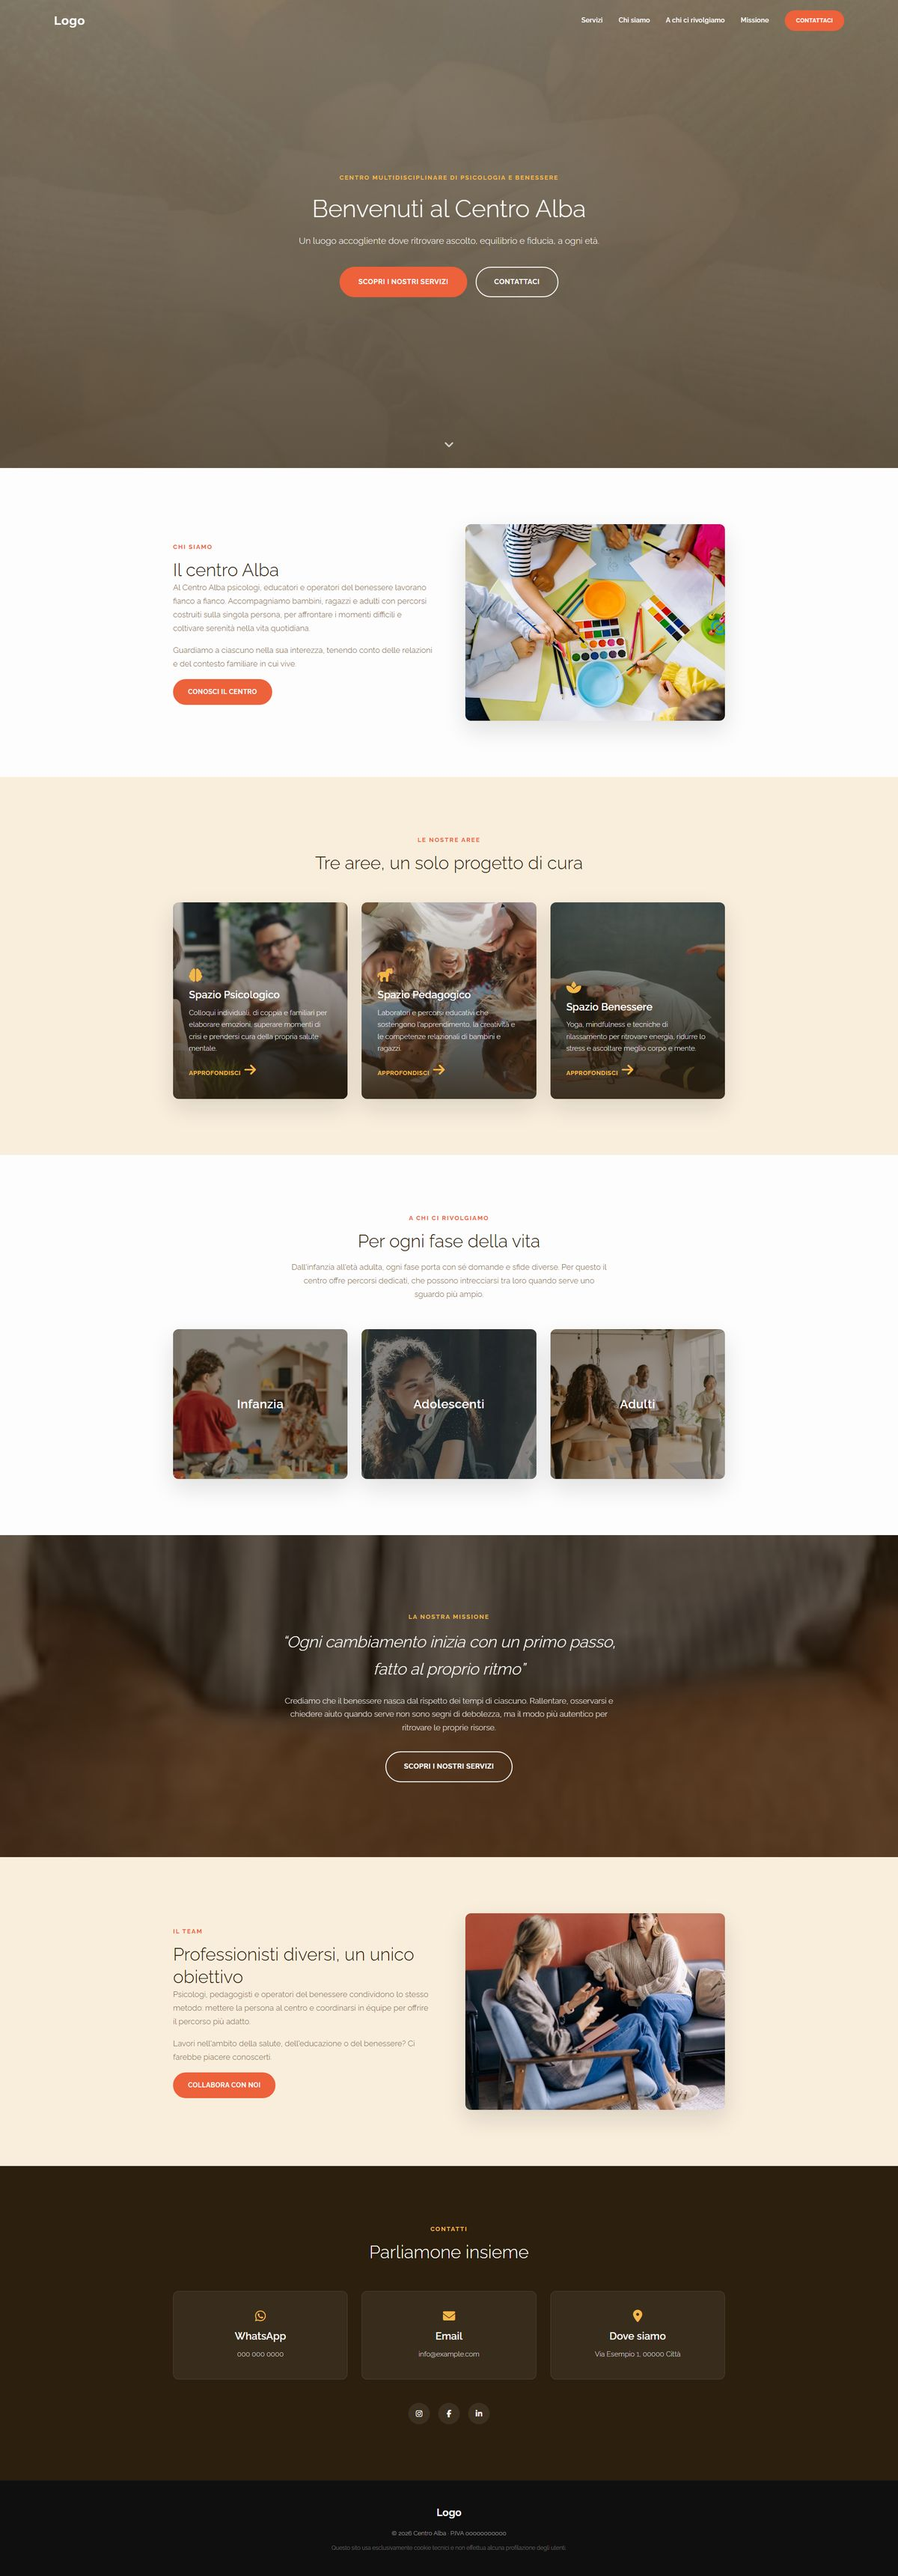
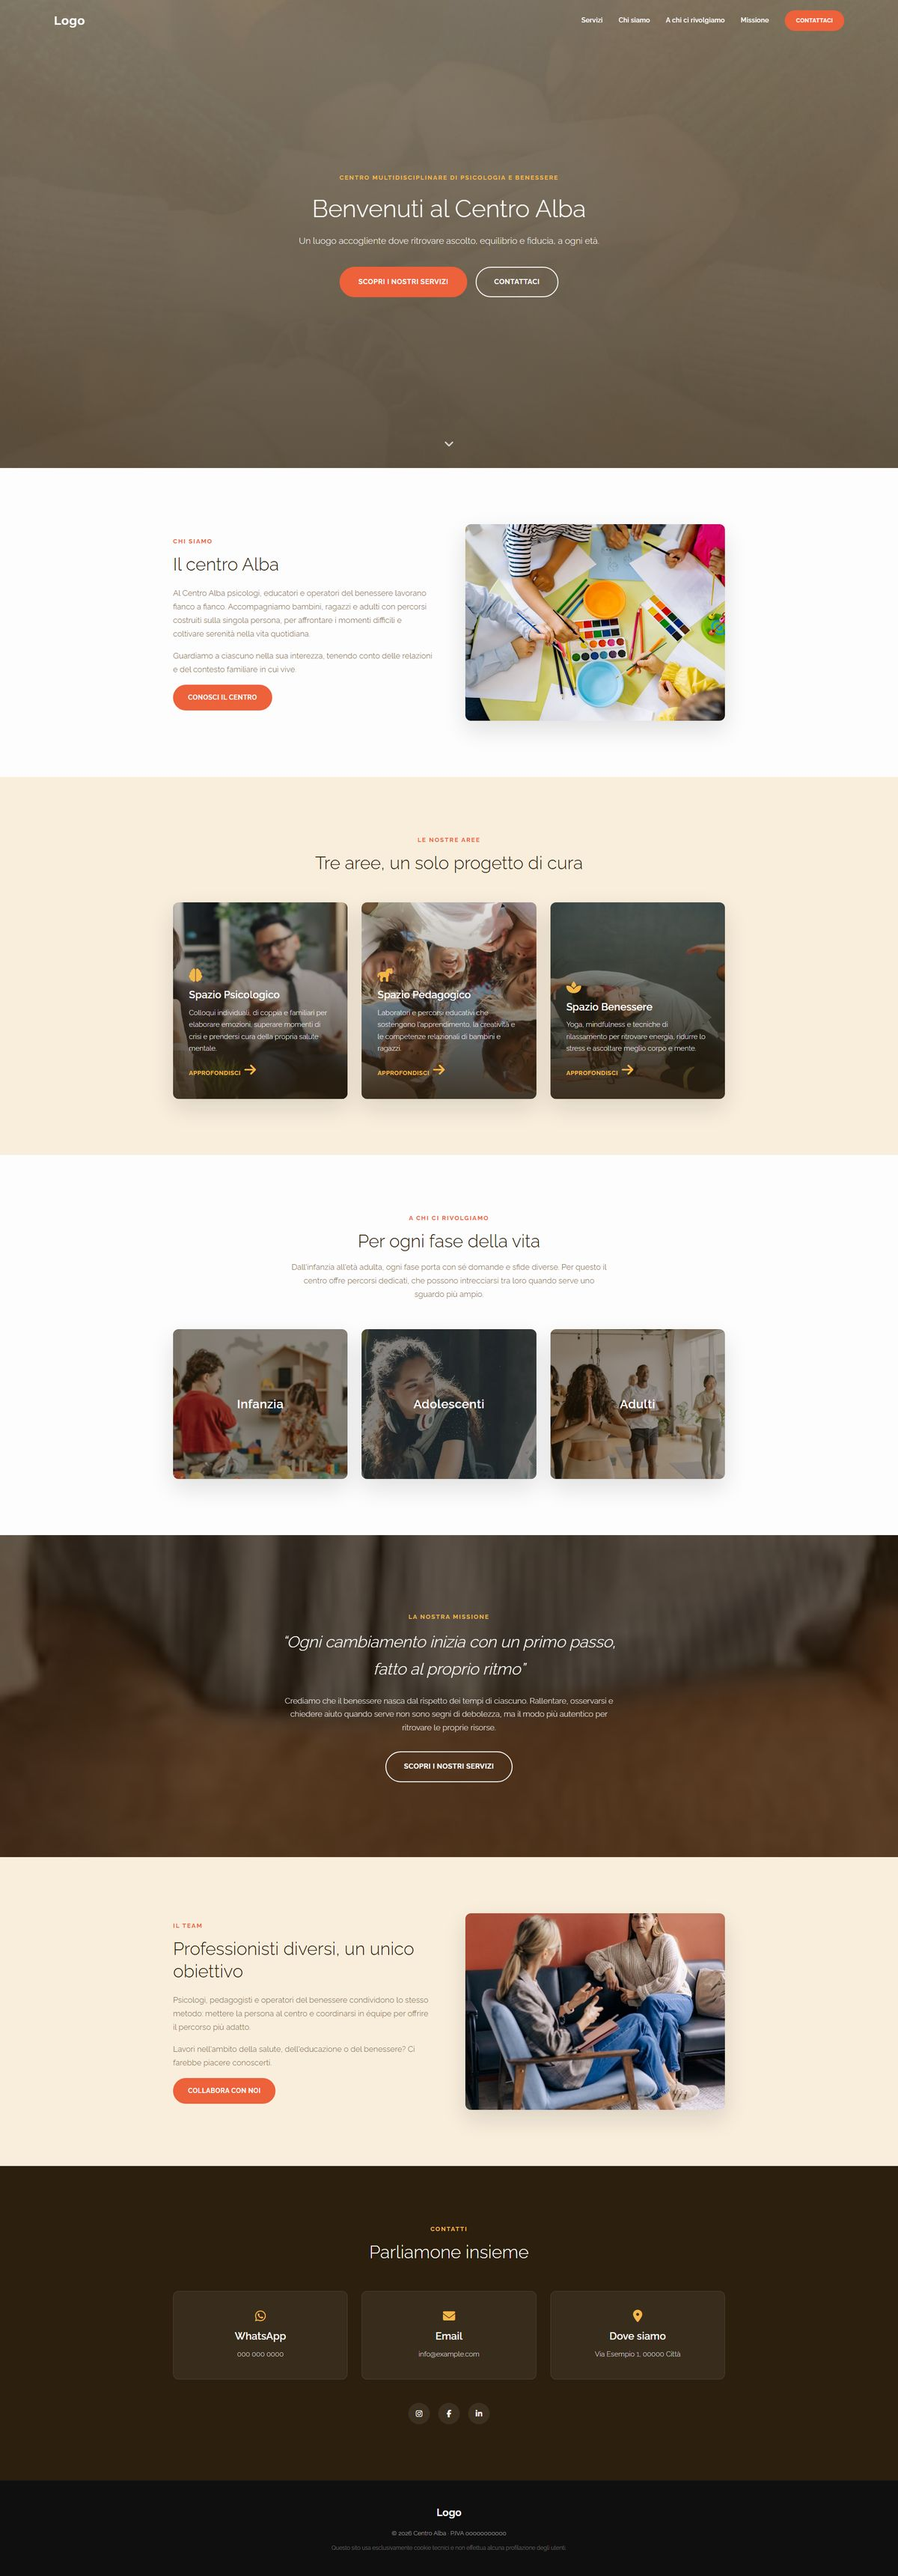
Wellness demo: heading spacing, smooth hover on area tiles

Changed region(s): [[0.185, 0.7465, 0.4625, 0.8398], [0.185, 0.2177, 0.4625, 0.2799]]

diff --git a/benessere/assets/css/main.css b/benessere/assets/css/main.css
@@ -1,1 +1,1 @@
-:root{--amber: #ed613b;--amber-hover: #d94f2b;--gold: #f2b749;--brown: #7a6240;--night: #2c1f0e;--cream: #f9eedc;--grey: #ebebeb;--black: #0f0f0f;--white: #fdfdfd;--font: "Raleway", -apple-system, BlinkMacSystemFont, sans-serif;--radius: 12px;--shadow: 0 20px 50px rgba(15, 15, 15, 0.12);--transition: all 0.3s ease;--max-width: 1180px}*{margin:0;padding:0;box-sizing:border-box}html{scroll-behavior:smooth}body{font-family:var(--font);font-weight:300;color:var(--night);background-color:var(--white);line-height:1.7;overflow-x:hidden}body.is-loading *{transition:none !important}img{display:block;max-width:100%}a{color:inherit;text-decoration:none}h1,h2,h3{font-weight:300;line-height:1.25}h1{font-size:52px}h2{font-size:38px}h3{font-size:22px;font-weight:600}p{font-size:17px}.kicker{display:inline-block;font-size:13px;font-weight:700;letter-spacing:2px;text-transform:uppercase;color:var(--amber);margin-bottom:14px}.kicker.light{color:var(--gold)}.button{display:inline-flex;align-items:center;gap:8px;padding:14px 30px;border-radius:999px;background-color:var(--amber);color:var(--white);font-weight:700;font-size:14px;letter-spacing:.5px;text-transform:uppercase;transition:var(--transition);border:2px solid var(--amber)}.button:hover{background-color:var(--amber-hover);border-color:var(--amber-hover);transform:translateY(-2px)}.button.big{padding:18px 38px;font-size:15px}.button.alt{background-color:rgba(0,0,0,0);border-color:var(--white)}.button.alt:hover{background-color:var(--white);color:var(--night)}.button.small{padding:10px 22px;font-size:12px}#navbar{position:fixed;top:0;left:0;right:0;z-index:1000;display:flex;align-items:center;justify-content:space-between;padding:22px 6%;transition:var(--transition)}#navbar.is-solid{background-color:rgba(253,253,253,.96);backdrop-filter:blur(6px);padding:14px 6%;box-shadow:0 2px 20px rgba(15,15,15,.06)}#navbar .logo{font-size:26px;font-weight:700;color:var(--white);letter-spacing:1px;transition:var(--transition)}#navbar.is-solid .logo{color:var(--amber)}#navbar nav{display:flex;align-items:center;gap:34px}#navbar nav a:not(.button){font-size:14px;font-weight:600;color:var(--white);letter-spacing:.3px;position:relative;transition:var(--transition)}#navbar.is-solid nav a:not(.button){color:var(--night)}#navbar nav a:not(.button)::after{content:"";position:absolute;left:0;bottom:-6px;width:0;height:2px;background-color:var(--amber);transition:var(--transition)}#navbar nav a:not(.button):hover::after{width:100%}#nav-toggle{display:none;flex-direction:column;gap:5px;background:none;border:none;cursor:pointer;padding:6px}#nav-toggle span{width:26px;height:2px;background-color:var(--white);transition:var(--transition)}#navbar.is-solid #nav-toggle span{background-color:var(--night)}.block-hero{position:relative;min-height:min(100vh,1000px);display:flex;align-items:center;justify-content:center;text-align:center;background-size:cover;background-position:center;background-repeat:no-repeat;padding:0 6%}.block-hero .overlay{position:absolute;inset:0;background:linear-gradient(180deg, rgba(44, 31, 14, 0.55) 0%, rgba(44, 31, 14, 0.75) 100%)}.block-hero .content{position:relative;z-index:2;max-width:780px;color:var(--white)}.block-hero .eyebrow{display:inline-block;font-size:13px;font-weight:700;letter-spacing:2px;text-transform:uppercase;color:var(--gold);margin-bottom:22px}.block-hero h1{margin-bottom:20px}.block-hero p{font-size:19px;font-weight:300;margin-bottom:40px;opacity:.92}.block-hero .actions{display:flex;gap:18px;justify-content:center;flex-wrap:wrap}.scroll-cue{position:absolute;bottom:36px;left:50%;transform:translateX(-50%);z-index:2;color:var(--white);font-size:20px;opacity:.8;animation:bounce 2.2s infinite}@keyframes bounce{0%,100%{transform:translate(-50%, 0)}50%{transform:translate(-50%, 10px)}}.block,.block-dark{padding:120px 6%}.block-alt{background-color:var(--cream)}.block-dark{background-color:var(--night);color:var(--white)}.inner{max-width:var(--max-width);margin:0 auto}.section-head{max-width:680px;margin:0 auto 60px;text-align:center}.section-head p{margin-top:18px;color:var(--brown)}.block-dark .section-head p{color:rgba(253,253,253,.75)}.two-col{display:grid;grid-template-columns:1fr 1fr;gap:70px;align-items:center}.two-col.reverse .col.image{order:2}.two-col .text p{color:var(--brown);margin-bottom:18px}.two-col .image img{width:100%;height:420px;object-fit:cover;border-radius:var(--radius);box-shadow:var(--shadow)}.grid{display:grid;gap:30px}.grid.three{grid-template-columns:repeat(3, 1fr)}.tile{position:relative;min-height:420px;border-radius:var(--radius);overflow:hidden;background-size:cover;background-position:center;box-shadow:var(--shadow);display:flex;align-items:flex-end}.tile-overlay{position:absolute;inset:0;background:linear-gradient(180deg, rgba(44, 31, 14, 0.1) 0%, rgba(44, 31, 14, 0.88) 100%);transition:var(--transition)}.tile:hover .tile-overlay{background:linear-gradient(180deg, rgba(237, 97, 59, 0.3) 0%, rgba(237, 97, 59, 0.92) 100%)}.tile-content{position:relative;z-index:2;padding:34px;color:var(--white)}.tile-content i{font-size:28px;color:var(--gold);margin-bottom:14px;display:block}.tile-content h3{color:var(--white);margin-bottom:12px}.tile-content p{font-size:15px;opacity:.9;margin-bottom:18px}.tile-content .link{font-size:13px;font-weight:700;letter-spacing:.5px;text-transform:uppercase;color:var(--gold);display:inline-flex;align-items:center;gap:8px}.cards-age{margin-top:10px}.age-card{position:relative;min-height:320px;border-radius:var(--radius);overflow:hidden;background-size:cover;background-position:center;box-shadow:var(--shadow);display:flex;align-items:center;justify-content:center}.age-overlay{position:absolute;inset:0;background-color:rgba(44,31,14,.45);transition:var(--transition)}.age-card:hover .age-overlay{background-color:rgba(237,97,59,.75)}.age-title{position:relative;z-index:2;color:var(--white);font-size:26px;font-weight:600;letter-spacing:.5px}.block-feature{position:relative;padding:160px 6%;text-align:center;background-size:cover;background-position:center;background-attachment:fixed}.block-feature .overlay{position:absolute;inset:0;background-color:rgba(44,31,14,.72)}.block-feature .content{position:relative;z-index:2;max-width:720px;margin:0 auto;color:var(--white)}.block-feature blockquote{font-size:34px;font-weight:300;font-style:italic;margin-bottom:24px}.block-feature p{opacity:.85;margin-bottom:36px}.contact-grid{margin-bottom:50px}.contact-card{text-align:center;padding:40px 20px;border-radius:var(--radius);background-color:rgba(253,253,253,.06);border:1px solid rgba(253,253,253,.1);transition:var(--transition)}.contact-card:hover{background-color:rgba(253,253,253,.1);transform:translateY(-4px)}.contact-card i{font-size:26px;color:var(--gold);margin-bottom:16px;display:block}.contact-card h3{color:var(--white);margin-bottom:10px}.contact-card span{color:rgba(253,253,253,.8);font-size:15px}.socials{display:flex;justify-content:center;gap:18px;list-style:none}.socials span{width:46px;height:46px;border-radius:50%;display:flex;align-items:center;justify-content:center;background-color:rgba(253,253,253,.08);color:var(--white);transition:var(--transition)}.socials span:hover{background-color:var(--amber);transform:translateY(-3px)}footer{padding:50px 6%;background-color:var(--black);color:rgba(253,253,253,.6);text-align:center}footer .logo{font-size:22px;font-weight:700;color:var(--white);display:inline-block;margin-bottom:14px}footer p{font-size:13px}footer .disclaimer{margin-top:10px;opacity:.6;font-size:12px}.reveal{opacity:0;transform:translateY(30px);transition:opacity .7s ease,transform .7s ease}.reveal.is-visible{opacity:1;transform:translateY(0)}@media(max-width: 900px){h1{font-size:38px}h2{font-size:30px}.block,.block-dark{padding:90px 6%}.block-feature{padding:110px 6%;background-attachment:scroll}.two-col,.grid.three{grid-template-columns:1fr}.two-col.reverse .col.image{order:0}.two-col .image img{height:280px}#navbar nav{position:fixed;top:0;right:-100%;width:78%;max-width:320px;height:100vh;background-color:var(--white);flex-direction:column;align-items:flex-start;justify-content:center;gap:26px;padding:40px;box-shadow:-10px 0 40px rgba(15,15,15,.15);transition:right .35s ease}#navbar nav.is-open{right:0}#navbar nav a:not(.button){color:var(--night) !important;font-size:17px}#nav-toggle{display:flex}.block-feature blockquote{font-size:26px}}.block-hero{background-image:url("../img/hero.webp")}.tile--psicologico{background-image:url("../img/spazio-psicologico.webp")}.tile--pedagogico{background-image:url("../img/spazio-pedagogico.webp")}.tile--benessere{background-image:url("../img/spazio-benessere.jpg")}.age-card--infanzia{background-image:url("../img/infanzia.webp")}.age-card--adolescenti{background-image:url("../img/adolescenti.webp")}.age-card--adulti{background-image:url("../img/adulti.webp")}.block-feature{background-image:url("../img/missione.webp")}span.button{pointer-events:none;cursor:default}#navbar .logo,footer .logo{white-space:nowrap}
+:root{--amber: #ed613b;--amber-hover: #d94f2b;--gold: #f2b749;--brown: #7a6240;--night: #2c1f0e;--cream: #f9eedc;--grey: #ebebeb;--black: #0f0f0f;--white: #fdfdfd;--font: "Raleway", -apple-system, BlinkMacSystemFont, sans-serif;--radius: 12px;--shadow: 0 20px 50px rgba(15, 15, 15, 0.12);--transition: all 0.3s ease;--max-width: 1180px}*{margin:0;padding:0;box-sizing:border-box}html{scroll-behavior:smooth}body{font-family:var(--font);font-weight:300;color:var(--night);background-color:var(--white);line-height:1.7;overflow-x:hidden}body.is-loading *{transition:none !important}img{display:block;max-width:100%}a{color:inherit;text-decoration:none}h1,h2,h3{font-weight:300;line-height:1.25}h1{font-size:52px}h2{font-size:38px}h3{font-size:22px;font-weight:600}p{font-size:17px}.kicker{display:inline-block;font-size:13px;font-weight:700;letter-spacing:2px;text-transform:uppercase;color:var(--amber);margin-bottom:14px}.kicker.light{color:var(--gold)}.button{display:inline-flex;align-items:center;gap:8px;padding:14px 30px;border-radius:999px;background-color:var(--amber);color:var(--white);font-weight:700;font-size:14px;letter-spacing:.5px;text-transform:uppercase;transition:var(--transition);border:2px solid var(--amber)}.button:hover{background-color:var(--amber-hover);border-color:var(--amber-hover);transform:translateY(-2px)}.button.big{padding:18px 38px;font-size:15px}.button.alt{background-color:rgba(0,0,0,0);border-color:var(--white)}.button.alt:hover{background-color:var(--white);color:var(--night)}.button.small{padding:10px 22px;font-size:12px}#navbar{position:fixed;top:0;left:0;right:0;z-index:1000;display:flex;align-items:center;justify-content:space-between;padding:22px 6%;transition:var(--transition)}#navbar.is-solid{background-color:rgba(253,253,253,.96);backdrop-filter:blur(6px);padding:14px 6%;box-shadow:0 2px 20px rgba(15,15,15,.06)}#navbar .logo{font-size:26px;font-weight:700;color:var(--white);letter-spacing:1px;transition:var(--transition)}#navbar.is-solid .logo{color:var(--amber)}#navbar nav{display:flex;align-items:center;gap:34px}#navbar nav a:not(.button){font-size:14px;font-weight:600;color:var(--white);letter-spacing:.3px;position:relative;transition:var(--transition)}#navbar.is-solid nav a:not(.button){color:var(--night)}#navbar nav a:not(.button)::after{content:"";position:absolute;left:0;bottom:-6px;width:0;height:2px;background-color:var(--amber);transition:var(--transition)}#navbar nav a:not(.button):hover::after{width:100%}#nav-toggle{display:none;flex-direction:column;gap:5px;background:none;border:none;cursor:pointer;padding:6px}#nav-toggle span{width:26px;height:2px;background-color:var(--white);transition:var(--transition)}#navbar.is-solid #nav-toggle span{background-color:var(--night)}.block-hero{position:relative;min-height:min(100vh,1000px);display:flex;align-items:center;justify-content:center;text-align:center;background-size:cover;background-position:center;background-repeat:no-repeat;padding:0 6%}.block-hero .overlay{position:absolute;inset:0;background:linear-gradient(180deg, rgba(44, 31, 14, 0.55) 0%, rgba(44, 31, 14, 0.75) 100%)}.block-hero .content{position:relative;z-index:2;max-width:780px;color:var(--white)}.block-hero .eyebrow{display:inline-block;font-size:13px;font-weight:700;letter-spacing:2px;text-transform:uppercase;color:var(--gold);margin-bottom:22px}.block-hero h1{margin-bottom:20px}.block-hero p{font-size:19px;font-weight:300;margin-bottom:40px;opacity:.92}.block-hero .actions{display:flex;gap:18px;justify-content:center;flex-wrap:wrap}.scroll-cue{position:absolute;bottom:36px;left:50%;transform:translateX(-50%);z-index:2;color:var(--white);font-size:20px;opacity:.8;animation:bounce 2.2s infinite}@keyframes bounce{0%,100%{transform:translate(-50%, 0)}50%{transform:translate(-50%, 10px)}}.block,.block-dark{padding:120px 6%}.block-alt{background-color:var(--cream)}.block-dark{background-color:var(--night);color:var(--white)}.inner{max-width:var(--max-width);margin:0 auto}.section-head{max-width:680px;margin:0 auto 60px;text-align:center}.section-head p{margin-top:18px;color:var(--brown)}.block-dark .section-head p{color:rgba(253,253,253,.75)}.two-col{display:grid;grid-template-columns:1fr 1fr;gap:70px;align-items:center}.two-col.reverse .col.image{order:2}.two-col .text h2{margin-bottom:24px}.two-col .text p{color:var(--brown);margin-bottom:18px}.two-col .image img{width:100%;height:420px;object-fit:cover;border-radius:var(--radius);box-shadow:var(--shadow)}.grid{display:grid;gap:30px}.grid.three{grid-template-columns:repeat(3, 1fr)}.tile{position:relative;min-height:420px;border-radius:var(--radius);overflow:hidden;background-size:cover;background-position:center;box-shadow:var(--shadow);display:flex;align-items:flex-end}.tile-overlay{position:absolute;inset:0;background:linear-gradient(180deg, rgba(44, 31, 14, 0.1) 0%, rgba(44, 31, 14, 0.88) 100%);transition:var(--transition)}.tile-overlay::after{content:"";position:absolute;inset:0;background:linear-gradient(180deg, rgba(237, 97, 59, 0.3) 0%, rgba(237, 97, 59, 0.92) 100%);opacity:0;transition:opacity .3s ease}.tile:hover .tile-overlay::after{opacity:1}.tile-content{position:relative;z-index:2;padding:34px;color:var(--white)}.tile-content i{font-size:28px;color:var(--gold);margin-bottom:14px;display:block}.tile-content h3{color:var(--white);margin-bottom:12px}.tile-content p{font-size:15px;opacity:.9;margin-bottom:18px}.tile-content .link{font-size:13px;font-weight:700;letter-spacing:.5px;text-transform:uppercase;color:var(--gold);display:inline-flex;align-items:center;gap:8px}.cards-age{margin-top:10px}.age-card{position:relative;min-height:320px;border-radius:var(--radius);overflow:hidden;background-size:cover;background-position:center;box-shadow:var(--shadow);display:flex;align-items:center;justify-content:center}.age-overlay{position:absolute;inset:0;background-color:rgba(44,31,14,.45);transition:var(--transition)}.age-card:hover .age-overlay{background-color:rgba(237,97,59,.75)}.age-title{position:relative;z-index:2;color:var(--white);font-size:26px;font-weight:600;letter-spacing:.5px}.block-feature{position:relative;padding:160px 6%;text-align:center;background-size:cover;background-position:center;background-attachment:fixed}.block-feature .overlay{position:absolute;inset:0;background-color:rgba(44,31,14,.72)}.block-feature .content{position:relative;z-index:2;max-width:720px;margin:0 auto;color:var(--white)}.block-feature blockquote{font-size:34px;font-weight:300;font-style:italic;margin-bottom:24px}.block-feature p{opacity:.85;margin-bottom:36px}.contact-grid{margin-bottom:50px}.contact-card{text-align:center;padding:40px 20px;border-radius:var(--radius);background-color:rgba(253,253,253,.06);border:1px solid rgba(253,253,253,.1);transition:var(--transition)}.contact-card:hover{background-color:rgba(253,253,253,.1);transform:translateY(-4px)}.contact-card i{font-size:26px;color:var(--gold);margin-bottom:16px;display:block}.contact-card h3{color:var(--white);margin-bottom:10px}.contact-card span{color:rgba(253,253,253,.8);font-size:15px}.socials{display:flex;justify-content:center;gap:18px;list-style:none}.socials span{width:46px;height:46px;border-radius:50%;display:flex;align-items:center;justify-content:center;background-color:rgba(253,253,253,.08);color:var(--white);transition:var(--transition)}.socials span:hover{background-color:var(--amber);transform:translateY(-3px)}footer{padding:50px 6%;background-color:var(--black);color:rgba(253,253,253,.6);text-align:center}footer .logo{font-size:22px;font-weight:700;color:var(--white);display:inline-block;margin-bottom:14px}footer p{font-size:13px}footer .disclaimer{margin-top:10px;opacity:.6;font-size:12px}.reveal{opacity:0;transform:translateY(30px);transition:opacity .7s ease,transform .7s ease}.reveal.is-visible{opacity:1;transform:translateY(0)}@media(max-width: 900px){h1{font-size:38px}h2{font-size:30px}.block,.block-dark{padding:90px 6%}.block-feature{padding:110px 6%;background-attachment:scroll}.two-col,.grid.three{grid-template-columns:1fr}.two-col.reverse .col.image{order:0}.two-col .image img{height:280px}#navbar nav{position:fixed;top:0;right:-100%;width:78%;max-width:320px;height:100vh;background-color:var(--white);flex-direction:column;align-items:flex-start;justify-content:center;gap:26px;padding:40px;box-shadow:-10px 0 40px rgba(15,15,15,.15);transition:right .35s ease}#navbar nav.is-open{right:0}#navbar nav a:not(.button){color:var(--night) !important;font-size:17px}#nav-toggle{display:flex}.block-feature blockquote{font-size:26px}}.block-hero{background-image:url("../img/hero.webp")}.tile--psicologico{background-image:url("../img/spazio-psicologico.webp")}.tile--pedagogico{background-image:url("../img/spazio-pedagogico.webp")}.tile--benessere{background-image:url("../img/spazio-benessere.jpg")}.age-card--infanzia{background-image:url("../img/infanzia.webp")}.age-card--adolescenti{background-image:url("../img/adolescenti.webp")}.age-card--adulti{background-image:url("../img/adulti.webp")}.block-feature{background-image:url("../img/missione.webp")}span.button{pointer-events:none;cursor:default}#navbar .logo,footer .logo{white-space:nowrap}

diff --git a/benessere/assets/scss/main.scss b/benessere/assets/scss/main.scss
@@ -349,6 +349,10 @@ p {
   order: 2;
 }
 
+.two-col .text h2 {
+  margin-bottom: 24px;
+}
+
 .two-col .text p {
   color: var(--brown);
   margin-bottom: 18px;
@@ -392,8 +396,18 @@ p {
   transition: var(--transition);
 }
 
-.tile:hover .tile-overlay {
+/* gradients can't be animated: fade an orange layer in instead */
+.tile-overlay::after {
+  content: "";
+  position: absolute;
+  inset: 0;
   background: linear-gradient(180deg, rgba(237, 97, 59, 0.3) 0%, rgba(237, 97, 59, 0.92) 100%);
+  opacity: 0;
+  transition: opacity 0.3s ease;
+}
+
+.tile:hover .tile-overlay::after {
+  opacity: 1;
 }
 
 .tile-content {
